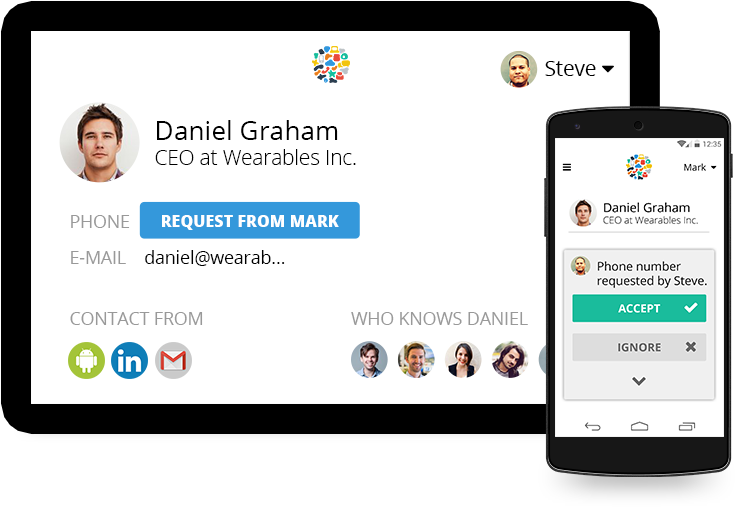
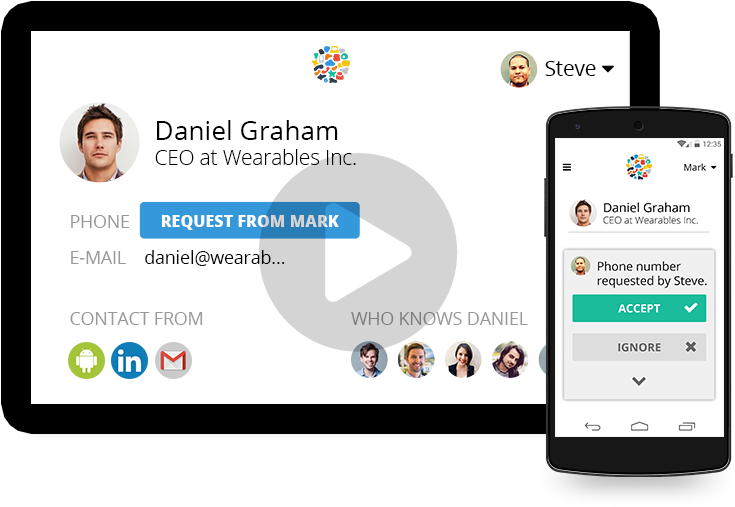
last changes to homepage

Changed region(s): [[0.3293, 0.2959, 0.6286, 0.7101]]

diff --git a/homepage/onboarding.html b/homepage/onboarding.html
@@ -96,9 +96,9 @@
 		<!-- Bootstrap Core JavaScript -->
 		<script src="js/bootstrap.min.js"></script>
 		
-		<!-- EayPIE -->
+		<!-- EasyPIE -->
 		<script src="../js/plugins/easypiechart/jquery.easypiechart.js"></script>
-		
+
 	<!-- document ready function -->
 	<script>
         $(document).ready(function() {
@@ -107,7 +107,7 @@
 			$( ".modal-1" ).load ("onboarding-modal.component", afterLoadingModal);
 			setTimeout(function(){ $( ".modal-2" ).load ("linkedin-modal.component", afterLoadingModal); }, 2000);
 			//$( ".modal-2" ).load ("linkedin-modal.component", afterLoadingModal);
-			setTimeout(function(){ $( ".modal-3" ).load ("onboarding-video-modal.component", afterLoadingModal); }, 2000);
+			setTimeout(function(){ $( ".modal-3" ).load ("onboarding-video-modal.component", addEventVideo); }, 2000);
 			//$( ".modal-3" ).load ("onboarding-video-modal.component", afterLoadingModal);
 			
 			function loadMainModal(){
@@ -134,6 +134,16 @@
 				
 					startChart();
 
+				});
+			
+			};
+			
+			function addEventVideo (){
+			
+				$('#onboarding-video-modal').on('hidden.bs.modal', function (e) {
+				
+					 $("#onboarding-video-modal iframe").attr("src", $("#onboarding-video-modal iframe").attr("src"));
+					 
 				});
 			
 			};

diff --git a/homepage/index.html b/homepage/index.html
@@ -78,7 +78,7 @@
 		<!-- Loaded dinamically -->
 	</span>
 
-    <nav class="navbar navbar-default navbar-fixed-top" role="navigation">
+    <nav class="navbar navbar-default navbar-homepage navbar-fixed-top" role="navigation">
 		<!-- loaded dinamically -->
     </nav>
 	
@@ -95,6 +95,9 @@
 			
 				<h1 class="sentence">The unified contact book <strong>for people & for teams</strong></h1>
 				<h2 class="subline">Bring your contacts together from various services & apps.<br>Share & collaborate on contacts securely.</h2>
+				<!-- <div class="text-center" style="margin-top:-20px;position:absolute;left:50%;width:100px;margin-left:-50px">
+					<a style="color:#000;z-index:1000"><i class="fa fa-play-circle" style="font-size:120px;opacity:.3;"></i><br><span class="small text-600" style="display:none">WATCH<br>VIDEO</span></a>
+				</div> -->
 				
 			</div>
 			
@@ -177,7 +180,6 @@
 				<p class="pitch">Share contacts using Typeless sharing.</p>
 				<p class="pitch">Set up privacy & access levels, so that the people you are sharing with only ever see contacts & contact details that you are comfortable with.</p>
 			</div>
-			
 		
 		</div>
 		

diff --git a/homepage/css/style.css b/homepage/css/style.css
@@ -64,7 +64,7 @@ a {
 	z-index: -1;
 }
 
-.navbar-default{
+.navbar-homepage{
 	background-color: white;
 	box-shadow: 0 0 5px 0 rgba(1,1,1,.5);
 	border-width: 0;
@@ -395,7 +395,7 @@ a.moveSection:hover {
 	margin-top: 40px;
 }
 
-.navbar-default .dropdown-menu a{
+.navbar-homepage .dropdown-menu a{
 	font-weight: 700;
 	text-transform: uppercase;
 	color: #777;
@@ -939,6 +939,8 @@ div.table-responsive{
 	padding-top: 10px;
 	padding-bottom: 10px;
 	font-size:13px;
+	font-weight:normal;
+	color: black;
 	height:45px;
 }
 
@@ -1022,7 +1024,7 @@ div.table-responsive{
 		padding-top: 100px;
 	}
 	
-	.navbar-default{
+	.navbar-homepage{
 		/* border: none; */
 		/* opacity:.9; */
 	}
@@ -1433,7 +1435,7 @@ div.table-responsive{
 		margin-top: 40px;
 	}
 	
-	.navbar-default .dropdown-menu{
+	.navbar-homepage .dropdown-menu{
 		margin-left: 30px;		
 	}
 	

diff --git a/homepage/how.html b/homepage/how.html
@@ -30,7 +30,7 @@
 <body class="full" data-spy="scroll" data-target="#bs-navbar-collapse" data-offset="100">
 
     <!-- Navigation -->
-    <nav class="navbar navbar-default navbar-fixed-top" role="navigation">
+    <nav class="navbar navbar-default navbar-homepage navbar-fixed-top" role="navigation">
 		<!-- Loaded dynamically -->
     </nav>
 	

diff --git a/homepage/pricing.html b/homepage/pricing.html
@@ -74,7 +74,7 @@
 		<!-- Loaded dinamically -->
 	</span>
 
-    <nav class="navbar navbar-default navbar-fixed-top" role="navigation">
+    <nav class="navbar navbar-default navbar-homepage navbar-fixed-top" role="navigation">
 		<!-- loaded dinamically -->
     </nav>
 	

diff --git a/homepage/downloads.html b/homepage/downloads.html
@@ -34,7 +34,7 @@
 	</span>
 
     <!-- Navigation -->
-    <nav class="navbar navbar-default navbar-fixed-top" role="navigation">
+    <nav class="navbar navbar-default navbar-homepage navbar-fixed-top" role="navigation">
         <!-- Loaded dinamically -->
     </nav>
 

diff --git a/homepage/faqs.html b/homepage/faqs.html
@@ -33,7 +33,7 @@
 	</span>
 
     <!-- Navigation -->
-    <nav class="navbar navbar-default navbar-fixed-top" role="navigation">
+    <nav class="navbar navbar-default navbar-homepage navbar-fixed-top" role="navigation">
         <!-- Loaded dinamically -->
     </nav>
 
